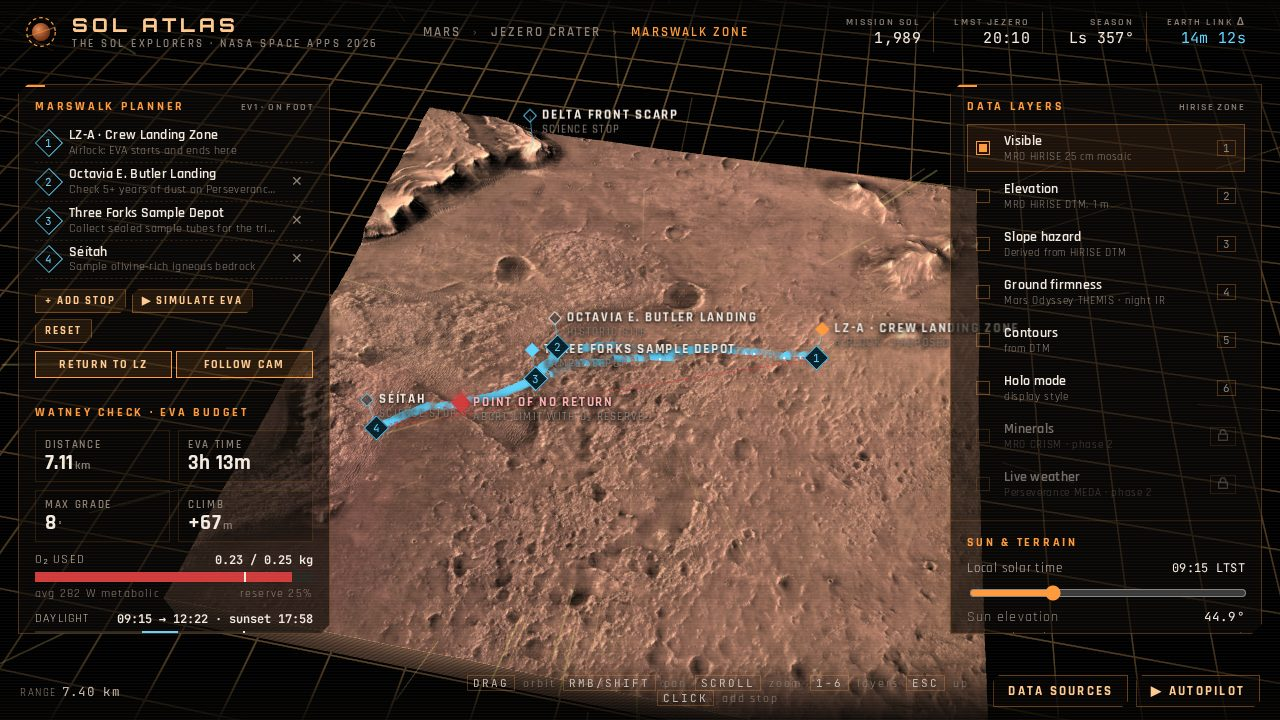
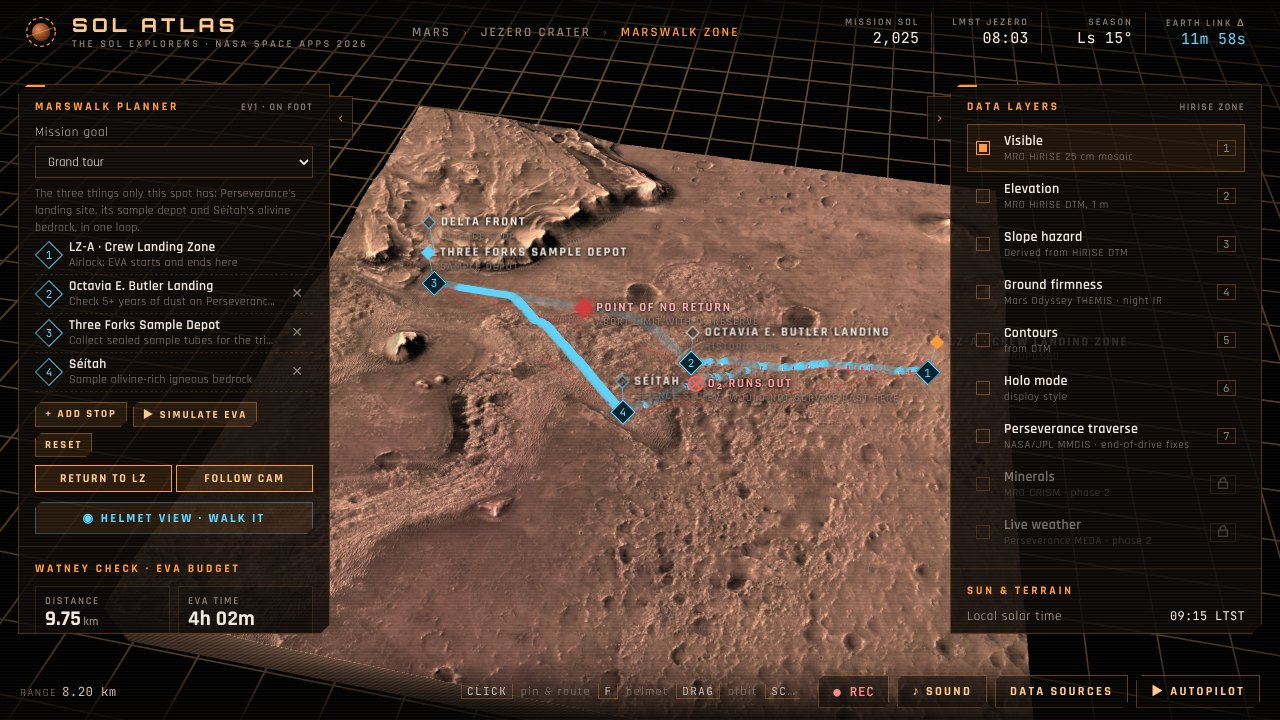
Move Three Forks to its real position, and the zone with it
NASA's PDS archive for the depot (mars2020_sample_depot_three_forks,
sample_tube_locations.csv) puts the rover at 18.4525-18.4534 N,
77.4078-77.4086 E, -2,545 m at each of the 10 tube drops. Sol Atlas had
the depot at 18.4391 N 77.4494 E, 2.4 km away on the crater floor.

- Marswalk zone moved 1.6 km west and widened to 6 x 6 km so it holds
  the landing site, the real depot, Seitah, the delta front and LZ-A;
  HiRISE ortho and DTM rebuilt.
- Three Forks at the mean drop position; the HiRISE DTM there reads
  -2,545 m, matching the PDS rover elevation.
- Seitah and the delta front, previously placed by eye, now sit where
  Perseverance parked to core Coulettes (sol 271) and Skyland (sol 495).
- All plan numbers, README tables, DATA SOURCES, submission data and
  zone screenshots updated.

Checked: smoke test on desktop and iPhone 14, the full autopilot run,
all four mission goals; no console errors, no sideways scroll.

Claude-Session: https://claude.ai/code/session_0141tgXk4JrBNUmJF1bHN5ER

diff --git a/src/data/places.js b/src/data/places.js
@@ -34,10 +34,10 @@ export const CRATER_POIS = [
     source: 'NASA/JPL-Caltech',
   },
   {
-    id: 'depot', name: 'Three Forks Sample Depot', kind: 'science', lat: 18.4391, lon: 77.4494, approx: true,
+    id: 'depot', name: 'Three Forks Sample Depot', kind: 'science', lat: 18.45283, lon: 77.40821,
     reason: 'Collect sealed sample tubes for the trip home',
-    text: '10 sealed sample tubes laid on the crater floor, 21 Dec 2022 – 28 Jan 2023, spaced 5–15 m apart in a zig-zag. The backup cache for Mars Sample Return.',
-    source: 'NASA/JPL-Caltech (depot); position from witness-tube coordinates',
+    text: '10 sealed sample tubes laid at the foot of the delta, sols 653–690 (Dec 2022 – Jan 2023), spaced 5–15 m apart in a zig-zag. The backup cache for Mars Sample Return.',
+    source: 'NASA PDS Geosciences Node, Mars 2020 Three Forks Depot bundle (rover position at each tube drop)',
   },
   {
     id: 'delta', name: 'Western Fan (delta)', kind: 'geology', lat: 18.505, lon: 77.37, approx: true,
@@ -66,27 +66,27 @@ export const CRATER_POIS = [
   },
 ];
 
-// Site (Marswalk zone, 5 × 5 km)
+// Site (Marswalk zone, 6 × 6 km)
 export const SITE_POIS = [
   {
     id: 'lz', name: 'LZ-A · Crew Landing Zone', kind: 'lz', lat: 18.4500, lon: 77.4850, proposed: true,
     reason: 'Airlock: EVA starts and ends here',
-    text: 'Our proposed crew landing zone. It sits on flat Máaz lava floor, with a median slope under 3° in the HiRISE DTM, and keeps >2 km of stand-off so engine plume ejecta cannot hit the sample depot.',
+    text: 'Our proposed crew landing zone. It sits on flat Máaz lava floor, with a median slope under 3° in the HiRISE DTM, and keeps over 4 km of stand-off so engine plume ejecta cannot reach the sample depot.',
     source: 'Sol Atlas design (HiRISE DTM analysis)',
   },
   CRATER_POIS[0],
   CRATER_POIS[1],
   {
-    id: 'seitah', name: 'Séítah', kind: 'geology', lat: 18.428, lon: 77.432, approx: true,
+    id: 'seitah', name: 'Séítah', kind: 'geology', lat: 18.43394, lon: 77.44302,
     reason: 'Sample olivine-rich igneous bedrock',
-    text: 'Ridges of olivine-rich igneous rock broken up by sand ripples. Perseverance cored some of its first samples here. Tough walking, high science value.',
-    source: 'Mars 2020 science team; HiRISE',
+    text: 'Ridges of olivine-rich igneous rock broken up by sand ripples. Perseverance parked here on Séítah\u2019s edge for sols 248–278 and cored Coulettes on sol 271, now one of the ten tubes at Three Forks. Tough walking, high science value.',
+    source: 'NASA/JPL-Caltech MMGIS waypoints (rover position); PDS Three Forks Depot bundle (sample IDs)',
   },
   {
-    id: 'front', name: 'Delta front scarp', kind: 'geology', lat: 18.481, lon: 77.437, approx: true,
+    id: 'front', name: 'Delta front', kind: 'geology', lat: 18.45887, lon: 77.40613,
     reason: 'Log layered lake sediments for biosignatures',
-    text: 'The steep edge of the delta, with layered sandstone and mudstone exposed. The slope layer shows why an astronaut should go around this cliff, not over it.',
-    source: 'HiRISE ortho + 1 m DTM',
+    text: 'The front of the delta: layered sandstone and mudstone laid down in the old lake. Perseverance parked here for sols 477–502 and cored Skyland on sol 495, now one of the ten tubes at Three Forks. The slope layer shows the steep edge to go around.',
+    source: 'NASA/JPL-Caltech MMGIS waypoints (rover position); PDS Three Forks Depot bundle (sample IDs)',
   },
 ];
 

diff --git a/src/ui/hud.js b/src/ui/hud.js
@@ -389,7 +389,7 @@ export class Hud {
       </div>
       <div class="sec">
         <div class="sec-h">Marswalk zone <span class="tag">HiRISE 25 cm</span></div>
-        <div class="sub" style="margin-top:0">5 × 5 km around Perseverance's landing site and the Three Forks sample depot, with 1 m elevation data. Plan an EVA on foot here.</div>
+        <div class="sub" style="margin-top:0">6 × 6 km around Perseverance's landing site, Séítah, the delta front and the Three Forks sample depot, with 1 m elevation data. Plan an EVA on foot here.</div>
         <div class="btn-row"><button class="btn primary" id="btn-zone">▼ Enter Marswalk zone</button></div>
       </div>
       <div class="sec">
@@ -583,7 +583,7 @@ export class Hud {
         <tr><td>Mars time</td><td>Mars24 algorithm, Allison & McEwen (2000), NASA GISS. Sol count from Perseverance landing, 18 Feb 2021.</td></tr>
         <tr><td>Signal delay</td><td>JPL approximate planetary positions (Standish), Keplerian elements 1800–2050.</td></tr>
         <tr><td>EVA metabolic cost</td><td>Pandolf, Givoni & Goldman (1977) load-carriage equation, scaled to Mars gravity with a pressure-suit penalty.</td></tr>
-        <tr><td>Three Forks depot</td><td>NASA/JPL-Caltech. Position from published witness-tube coordinates (18.439°N, 77.449°E, −2,568 m).</td></tr>
+        <tr><td>Three Forks depot</td><td>NASA PDS Geosciences Node, Mars 2020 Three Forks Depot bundle: rover position at each of the 10 tube drops (18.453°N, 77.408°E, −2,545 m).</td></tr>
         <tr><td>Colour tint</td><td>CTX / HiRISE greyscale tinted with the Viking colour of the same ground (low-frequency chroma only).</td></tr>
       </table>
       <p class="muted" style="margin-top:16px">Positions marked "approx." were placed by eye on the mosaics. LZ-A is our proposed crew landing zone, not a NASA site. Acidalia / Ares III refers to the novel <i>The Martian</i> (Andy Weir) and is fiction. NASA imagery is not copyrighted; NASA logos are not used.</p>`;

diff --git a/src/main.js b/src/main.js
@@ -110,7 +110,7 @@ class App {
       id: 'site', meta: manifest.site, heights: heights.site,
       tex: { visible: tex.s_visible, normal: tex.s_normal, slope: tex.s_slope, thermal: tex.s_thermal },
       pois: SITE_POIS, exag: 1.6, contour: [5, 25], gridKm: 0.5, dist: [0.12, 13], strata: 14,
-      overview: { dist: 7.4, el: 0.86, az: 0.2 },
+      overview: { dist: 8.9, el: 0.86, az: 0.2 },
       lat0: 18.445, lon0: 77.462, slopeLim: [10, 20, 30], ltst: 9.25,
       meshStep: tier.meshStep, shadowSteps: tier.shadowSteps,
     });

diff --git a/scripts/build_data.py b/scripts/build_data.py
@@ -86,9 +86,10 @@ KY = R_MARS * math.pi / 180.0  # metres per degree lat
 
 # Jezero crater tile = extent of the JPL CTX DEM
 CRATER_BOUNDS = (4328999.999999998, 1042080.0000000028, 4418119.999999998, 1143420.0000000028)
-# Marswalk site tile: 5 x 5 km box around Octavia E. Butler Landing + Three Forks depot
-SITE_CENTER = (18.4450, 77.4620)  # lat, lon
-SITE_SIZE = 5000.0
+# Marswalk site tile: 6 x 6 km box that holds Octavia E. Butler Landing, the Three Forks depot,
+# Perseverance's Séítah stop, the delta front at Hawksbill Gap and our proposed LZ-A
+SITE_CENTER = (18.4440, 77.4433)  # lat, lon
+SITE_SIZE = 6000.0
 
 REGION = dict(lon0=71.5, lon1=83.5, lat0=12.4, lat1=24.4)
 

diff --git a/README.md b/README.md
@@ -59,7 +59,7 @@ The gold line is **Perseverance's real drive path**: 555 end-of-drive positions 
 
 ### 3. Marswalk zone
 
-A 5 × 5 km zone around Perseverance's landing site and the Three Forks sample depot, at 25 cm per pixel on a 1 m elevation model. This is where you plan the walk:
+A 6 × 6 km zone around Perseverance's landing site, Séítah, the delta front and the Three Forks sample depot, built from a 25 cm per pixel HiRISE mosaic and a 1 m elevation model. This is where you plan the walk:
 
 - **Start from a science goal.** Pick a mission goal and the plan follows from it: *Bring the samples home* (the Three Forks tubes), *Date the crater floor* (Séítah's olivine bedrock), *Look for signs of ancient life* (the delta front's lake sediments), or the *Grand tour*. Each goal says why this spot answers it, with its source.
 - **Route anywhere, like a maps app.** Click or tap any spot to drop a pin. The card shows its coordinates, elevation, slope class and distance from the airlock. **ROUTE HERE** plans the walk there and back; **ADD STOP** adds it to the plan; **STAND HERE** puts you there in the helmet view.
@@ -146,24 +146,24 @@ Every layer is real mission data. Nothing is hand-painted. The exact files, with
 | Sun and shadows | Solar declination and hour angle for Jezero; shadows ray-marched through the elevation model on the GPU | Sunrise and sunset shown in the HUD |
 | Safest route | A* search on a 512 × 512 grid from the HiRISE DTM. Step cost is **metabolic energy**, so the route minimises oxygen; cells steeper than the walking limit are avoided | Default loop solves in under 40 ms |
 | Walking cost | **Pandolf et al. (1977)** load-carriage equation, scaled to Mars gravity (0.38 g) with a pressure-suit penalty; Tobler-style speed vs. grade; 1 L O₂ ≈ 20.1 kJ | Flat walking at 0.9 m/s ≈ 293 W ≈ 0.075 kg O₂ per hour, the same rate our 0.60 kg / 8 h suit assumption is sized on |
-| Point of no return | First point on the way out where O₂ used so far + O₂ to walk straight back (plus a 25 % detour allowance) would eat into the reserve | 0.30 kg suit → PNR at Séítah; 0.25 kg → mid-route at 2.98 km |
-| O₂ runs out | The EVA's walk/stop timeline carries cumulative O₂; the first moment it reaches the tank size gives the time and place | 0.20 kg suit on the default loop: O₂ out at 5.83 km, 2 h 50 min in, 1.21 km from the airlock |
-| Radiation dose | EVA time × the surface dose rate Curiosity's RAD measured, 0.64 mSv per day (Hassler et al. 2014). A suit adds little shielding against cosmic rays | Default loop: ≈ 0.09 mSv, against NASA's 600 mSv career limit |
-| Storm shelter | Longest straight walk back to the airlock from any point on the route, at flat walking speed with the PNR's 25 % detour allowance: how long the crew is exposed if a solar-storm warning comes in | Default loop: ≤ 1 h 15 min, worst at 3.63 km (Séítah) |
+| Point of no return | First point on the way out where O₂ used so far + O₂ to walk straight back (plus a 25 % detour allowance) would eat into the reserve | Default loop: 0.30 kg suit → PNR at 3.92 km, 0.25 kg → 3.23 km (both on the leg to Three Forks) |
+| O₂ runs out | The EVA's walk/stop timeline carries cumulative O₂; the first moment it reaches the tank size gives the time and place | 0.20 kg suit on the default loop: O₂ out at 6.38 km, 2 h 41 min in, 2.86 km from the airlock |
+| Radiation dose | EVA time × the surface dose rate Curiosity's RAD measured, 0.64 mSv per day (Hassler et al. 2014). A suit adds little shielding against cosmic rays | Default loop: ≈ 0.11 mSv, against NASA's 600 mSv career limit |
+| Storm shelter | Longest straight walk back to the airlock from any point on the route, at flat walking speed with the PNR's 25 % detour allowance: how long the crew is exposed if a solar-storm warning comes in | Default loop: ≤ 1 h 40 min, worst at Three Forks (4.61 km) |
 | Mayday delay | One-way and round-trip light time from the same Earth–Mars model as the header clock | ~14 min one way on 25 Sep 2026 |
 | Helmet skyline | For each of 360 bearings, march the CTX DEM from 2.6 to 46 km and keep the highest elevation angle, after subtracting the curvature drop d²/2R | Highest skyline 4.5° toward bearing 263° (the western rim and delta) |
-| Elevations | Heights decoded from the DEMs | Three Forks: −2,570 m vs published −2,568 m |
+| Elevations | Heights decoded from the DEMs | Three Forks: −2,545 m in the HiRISE DTM vs −2,545.3 m rover elevation at the tube drops in NASA's PDS depot archive |
 
-Default EVA assumptions, all editable in the planner: 75 kg astronaut, 58 kg suit and backpack, no extra science kit (0–30 kg slider, added to the load in the walking model: 20 kg raises the default loop from 0.23 to 0.29 kg of O₂), 0.60 kg usable O₂ (about 8 h), 25 % reserve, 20° walking-slope limit, 20 min per science stop.
+Default EVA assumptions, all editable in the planner: 75 kg astronaut, 58 kg suit and backpack, no extra science kit (0–30 kg slider, added to the load in the walking model: 20 kg raises the default loop from 0.30 to 0.38 kg of O₂), 0.60 kg usable O₂ (about 8 h), 25 % reserve, 20° walking-slope limit, 20 min per science stop.
 
-The default plan (LZ-A → Octavia E. Butler Landing → Three Forks → Séítah → LZ-A) comes out at **7.1 km, 3 h 13 min, 0.23 kg of O₂, 62 % margin: MARSWALK READY**.
+The default plan (LZ-A → Octavia E. Butler Landing → Three Forks → Séítah → LZ-A) comes out at **9.75 km, 4 h 02 min, 0.30 kg of O₂, 50 % margin: MARSWALK READY**.
 
 | Mission goal | Stops (from and back to LZ-A) | Route | O₂ | Call |
 |---|---|---|---|---|
-| Grand tour | Landing site, Three Forks, Séítah | 7.11 km | 0.23 kg | READY |
-| Bring the samples home | Three Forks | 4.49 km | 0.13 kg | READY |
-| Date the crater floor | Séítah | 6.96 km | 0.20 kg | READY |
-| Look for signs of ancient life | Delta front scarp | 7.97 km | 0.24 kg | CAUTION (steep sections near the scarp) |
+| Grand tour | Landing site, Three Forks, Séítah | 9.75 km | 0.30 kg | READY |
+| Bring the samples home | Three Forks | 8.74 km | 0.24 kg | READY |
+| Date the crater floor | Séítah | 5.46 km | 0.16 kg | READY |
+| Look for signs of ancient life | Delta front | 9.30 km | 0.26 kg | CAUTION (steep sections up to 17° on the delta) |
 
 ---
 
@@ -172,9 +172,11 @@ The default plan (LZ-A → Octavia E. Butler Landing → Three Forks → Séíta
 | Place | Position | Notes |
 |---|---|---|
 | Octavia E. Butler Landing | 18.4447°N 77.4508°E | Perseverance touchdown, 18 Feb 2021 |
-| Three Forks Sample Depot | ≈ 18.4391°N 77.4494°E | 10 sample tubes laid Dec 2022 – Jan 2023. Position from published witness-tube coordinates |
-| LZ-A, crew landing zone | 18.4500°N 77.4850°E | **Our proposal**, not a NASA site: flat lava floor, ≥ 2 km from the depot so engine blast can't reach it |
-| Séítah, delta front, Belva crater, Neretva Vallis, Pliva Vallis, crater rim | approx. | Placed by eye on the CTX and HiRISE mosaics |
+| Three Forks Sample Depot | 18.4528°N 77.4082°E | 10 sample tubes laid sols 653–690 (Dec 2022 – Jan 2023) at the foot of the delta. Mean of the rover positions at each tube drop, from NASA's PDS Three Forks Depot archive |
+| Séítah | 18.4339°N 77.4430°E | Where Perseverance parked on Séítah's edge, sols 248–278, and cored Coulettes (sol 271). NASA/JPL MMGIS waypoints |
+| Delta front | 18.4589°N 77.4061°E | Where Perseverance parked on the delta front, sols 477–502, and cored Skyland (sol 495). NASA/JPL MMGIS waypoints |
+| LZ-A, crew landing zone | 18.4500°N 77.4850°E | **Our proposal**, not a NASA site: flat lava floor, over 4 km from the depot so engine blast can't reach it |
+| Western Fan (delta), Belva crater, Neretva Vallis, Pliva Vallis, crater rim | approx. | Crater-view labels, placed by eye on the CTX mosaic |
 | Acidalia Planitia "Ares III" | 31.2°N 28.5°W | Fiction: Mark Watney's base in *The Martian* (Andy Weir) |
 
 ---

diff --git a/PROJECT_LOG.md b/PROJECT_LOG.md
@@ -156,6 +156,9 @@ This is the team's running record of everything done on Sol Atlas: what was buil
 | `44bd8b0` | 2026-10-29 | Add ESA Mars Express HRSC relief around Jezero |
 | `eaf08f3` | 2026-10-29 | Remove a teammate's name from the credits for her prototype |
 | `7abccd4` | 2026-10-29 | List the team members in the README |
+| `c44a640` | 2026-10-31 | Perseverance traverse from NASA's live feed: sol 0 to 2022 |
+| `89a1e68` | 2026-10-31 | Planner: science-kit mass, EVA radiation dose and storm-shelter time |
+| `a50f665` | 2026-10-31 | Mission-goal picker: start the plan from a science goal |
 
 **8. Hosting**
 - A Claude artifact preview was published (private link above).
@@ -395,6 +398,28 @@ The owner asked to unhide everything that was hidden for the first-round submiss
 
 **Not done:** spaceappschallenge.org through Playwright. The browser in the build container goes through the same network proxy, which refuses the site (HTTP 403), and no computer of the team's is connected to the session, so a browser on the owner's machine can't be driven from here.
 
+### 2026-10-31: three new features, and Three Forks moved to its real position
+
+With `mars.nasa.gov` and `pds-geosciences.wustl.edu` now allowed, the owner asked to start on the ideas in `docs/CHALLENGE_FIT.md`.
+
+| Commit | Change | Checked |
+|---|---|---|
+| `c44a640` | Perseverance traverse straight from NASA's MMGIS feed: 555 end-of-drive fixes, sol 0–2022 (Oct 2026), 45.25 km. New `traverse` stage in `build_data.py`; the third-party archive (stopped at sol 1524) is no longer used | Path runs to the western rim in the crater view; legend and DATA SOURCES read the numbers from the data |
+| `89a1e68` | Planner: science-kit slider (0–30 kg, Pandolf load), EVA radiation dose (Curiosity RAD, 0.64 mSv/day), storm-shelter time (longest walk back to the airlock) | Default numbers unchanged at the time; 20 kg kit costs 26 % more O₂ |
+| `a50f665` | Mission-goal picker: Grand tour, Bring the samples home, Date the crater floor, Look for signs of ancient life | All four goals solve; the autopilot narrates the tour and restores the user's goal |
+| this commit | **Three Forks fixed.** See below | See below |
+
+**The Three Forks error.** While matching rover photos to our stops, NASA's waypoint feed showed Perseverance at about 18.4527°N 77.4082°E while it laid the tubes (sols 653–693), not at our 18.4391°N 77.4494°E. NASA's PDS archive for the depot (`mars2020_sample_depot_three_forks`, file `sample_tube_locations.csv`) confirms it: the rover's position at each of the 10 drops is 18.4525–18.4534°N, 77.4078–77.4086°E, elevation −2,545 m. Our old position, described as "from published witness-tube coordinates", was 2.4 km off, on the crater floor instead of at the foot of the delta. Its elevation had looked right only because the floor there is at a similar height.
+
+**Fix**
+- The Marswalk zone moved 1.6 km west and grew from 5 × 5 to 6 × 6 km (centre 18.4440°N 77.4433°E), so it holds the landing site, the real depot, Séítah, the delta front and LZ-A. Rebuilt with `build_data.py site` (HiRISE ortho and DTM) and `lite`.
+- Three Forks: mean of the 10 drop positions, 18.4528°N 77.4082°E. The HiRISE DTM there reads −2,545 m, the same as the PDS rover elevation (−2,545.3 m): an independent check that the position and the map line up.
+- Séítah and the delta front were "placed by eye". They are now at Perseverance's real positions: Séítah where it parked for sols 248–278 and cored Coulettes (sol 271); the delta front where it parked for sols 477–502 and cored Skyland (sol 495). Both samples are now tubes at Three Forks (PDS sample IDs).
+- New numbers: default loop 9.75 km, 4 h 02 min, 0.30 kg O₂, 50 % margin, READY. 0.30 kg suit: PNR at 3.92 km; 0.25 kg: 3.23 km; 0.20 kg: O₂ out at 6.38 km, 2 h 41 min in. Goals: samples 8.74 km, crater floor 5.46 km, signs of life 9.30 km (CAUTION, 17° on the delta). README, DATA SOURCES, SUBMISSION_DATA and AGENTS updated.
+- README screenshots 04, 05, 06, 07, 11 and 12 retaken on the new zone.
+
+**Checked:** smoke test passes on desktop and iPhone 14; the full autopilot runs to the end with no errors (captions now say 9.8 km loop); all four goals solve; no sideways scroll.
+
 ---
 
 ## Decisions and assumptions
@@ -429,7 +454,7 @@ The owner asked to unhide everything that was hidden for the first-round submiss
 - [ ] **Confirm with the local Space Apps lead** how work done before the 14–15 Nov hackathon is treated, and whether the first-round video is a separate pre-selection.
 - [ ] **13 Nov morning:** match our datasets to NASA's names in the challenge's Resources tab, which only goes live on 13 Nov (the page said so on 29 Oct). See `docs/SUBMISSION_CHECKLIST.md`.
 - [x] After the first-round submission, switch the helmet view and the CRATER panel back on (done 24 Oct 2026).
-- [ ] Refresh the Perseverance traverse past sol 1524. Allow `mars.nasa.gov` in the environment's network settings, or drop `M20_waypoints_current.json` into the repo.
+- [x] Perseverance traverse refreshed to sol 2022 from NASA's feed (31 Oct 2026); `build_data.py traverse` repeats it.
 - [ ] Pitch video: follow the checklist at the end of `AI_DISCLOSURE.md` (watermark any AI visuals or voice; no NASA logos).
 - [ ] Record the pitch video with the autopilot (`C`, `K`, `H`). The built-in **● REC** button can do it: choose "this tab" and allow audio.
 - [ ] Try the helmet view on a real phone: frame rate, joystick feel, and the Android landscape lock.

diff --git a/docs/SUBMISSION_DATA.md b/docs/SUBMISSION_DATA.md
@@ -27,7 +27,9 @@ All NASA map files were read directly from the USGS Astrogeology Science Center'
   https://asc-pds-services.s3.us-west-2.amazonaws.com/mosaic/mars2020_trn/HiRISE/JEZ_hirise_soc_006_DTM_MOLAtopography_DeltaGeoid_1m_Eqc_latTs0_lon0_blend40.tif
 - Mars 2020 Perseverance: rover end-of-drive positions from NASA/JPL's "Where is Perseverance?" map (MMGIS waypoint feed), sol 0 to 2022 (October 2026). Perseverance traverse layer.
   https://mars.nasa.gov/mmgis-maps/M20/Layers/json/M20_waypoints.json
-- Mars 2020 Perseverance: landing site (Octavia E. Butler Landing, 18 Feb 2021) and Three Forks sample depot positions (NASA/JPL-Caltech).
+- Mars 2020 Perseverance: landing site (Octavia E. Butler Landing, 18 Feb 2021), and the rover's positions at Séítah (sols 248–278) and the delta front (sols 477–502), from the waypoint feed above. Science stops in the Marswalk zone.
+- Mars 2020 Three Forks Depot bundle (NASA PDS Geosciences Node): rover latitude, longitude and elevation at each of the 10 sample-tube drops, and the sample IDs. Three Forks stop position, and the elevation check (−2,545 m).
+  https://pds-geosciences.wustl.edu/m2020/urn-nasa-pds-mars2020_sample_depot_three_forks/
 - NASA GISS Mars24 sunclock algorithm (Allison & McEwen 2000): Mars time, sols, local solar time, Sun position.
   https://www.giss.nasa.gov/tools/mars24/help/algorithm.html
 - NASA JPL Solar System Dynamics, "Approximate Positions of the Planets" (Standish): Earth–Mars distance and signal delay.
@@ -59,8 +61,8 @@ All NASA map files were read directly from the USGS Astrogeology Science Center'
 | Night thermal / ground firmness | Mars Odyssey THEMIS night IR 100 m | Clipped to ±54° (streaky edges), gentle contrast curve, orange ramp |
 | Crater imagery | MRO CTX 5 m orthomosaic (JPL) | 4096 × 4658 px (~22 m/px), tinted with the Viking colour of the same ground |
 | Crater terrain, slope, contours | MRO CTX 20 m DEM (JPL) | 1024 × 1164 height grid; slope from the full 20 m DEM |
-| Marswalk zone imagery | MRO HiRISE 25 cm TRN orthomosaic | 5 × 5 km cut, 4096² px (~1.2 m/px), seams flattened, tinted |
-| Marswalk zone terrain, slope, routes, profile | MRO HiRISE 1 m TRN DTM | 1024² height grid; slope at 2.4 m; A* route grid 512² |
+| Marswalk zone imagery | MRO HiRISE 25 cm TRN orthomosaic | 6 × 6 km cut, 4096² px (~1.5 m/px), seams flattened, tinted |
+| Marswalk zone terrain, slope, routes, profile | MRO HiRISE 1 m TRN DTM | 1024² height grid; slope at 2.9 m; A* route grid 512² |
 | Perseverance traverse | Mars 2020 end-of-drive waypoints (NASA/JPL MMGIS) | 555 points (last fix of each sol), sol 0–2022, stored in `public/data/m20_traverse.json` by the `traverse` stage |
 
 ## Newer data we know about (not used yet)

diff --git a/AGENTS.md b/AGENTS.md
@@ -11,7 +11,7 @@ Read this first. It explains what Sol Atlas is, how the code fits together, how 
 A browser app (three.js + Vite, no framework) where you:
 1. spin a real-data Mars;
 2. dive into Jezero Crater;
-3. plan a walk on foot (a "Marswalk") in a 5 × 5 km zone of HiRISE data.
+3. plan a walk on foot (a "Marswalk") in a 6 × 6 km zone of HiRISE data.
 
 The planner finds the least-oxygen route and checks the suit's O₂ budget: point of no return, and where the O₂ runs out. It simulates the EVA. You can also walk the terrain in first person (the "helmet view"). The skyline there is computed from the elevation model, not painted.
 
@@ -64,7 +64,7 @@ Three **views**, each its own three.js scene, with a crossfade between them:
 |---|---|---|---|
 | `orbit` | `OrbitView` (`src/orbit/`) | planet radius = 1 | Viking colour, MOLA, THEMIS globes; HRSC + MOLA blended relief in the 12° patch around Jezero |
 | `crater` | `TerrainView` id `crater` | **km** (89 × 101 km tile) | CTX 5 m image, 20 m DEM |
-| `site` | `TerrainView` id `site` | **km** (5 × 5 km tile) | HiRISE 25 cm image, 1 m DTM |
+| `site` | `TerrainView` id `site` | **km** (6 × 6 km tile) | HiRISE 25 cm image, 1 m DTM |
 
 `src/main.js` holds the `App`: the renderer, quality tier, resize and compact layout, transitions (`descendToJezero`, `enterSite`, `exitUp`, `goTo`), input (mouse, touch, pinch, keys) and the frame loop. Per frame it updates the active view and the planner, then projects the DOM labels.
 

diff --git a/docs/CHALLENGE_FIT.md b/docs/CHALLENGE_FIT.md
@@ -4,7 +4,7 @@ Challenge: **Interplanetary Survival Guide: Martian Map** (Intermediate · Human
 
 **The ask, in NASA's words:** "create a layered, integrated view of a location or route on the Martian surface that pulls together data from multiple NASA science missions and could help a human explorer plan and carry out a successful Marswalk while conducting new and exciting science along the way." The background adds that tools like JPL's Mars Trek "are built for regional and global views rather than the hyperlocalized areas astronauts will target on individual spacewalks."
 
-That last line is our pitch: Sol Atlas goes from the whole planet down to a 5 × 5 km walk zone at 25 cm per pixel, which is exactly the "hyperlocalized" view NASA says is missing.
+That last line is our pitch: Sol Atlas goes from the whole planet down to a 6 × 6 km walk zone built from 25 cm per pixel HiRISE images, which is exactly the "hyperlocalized" view NASA says is missing.
 
 ## Objectives
 
